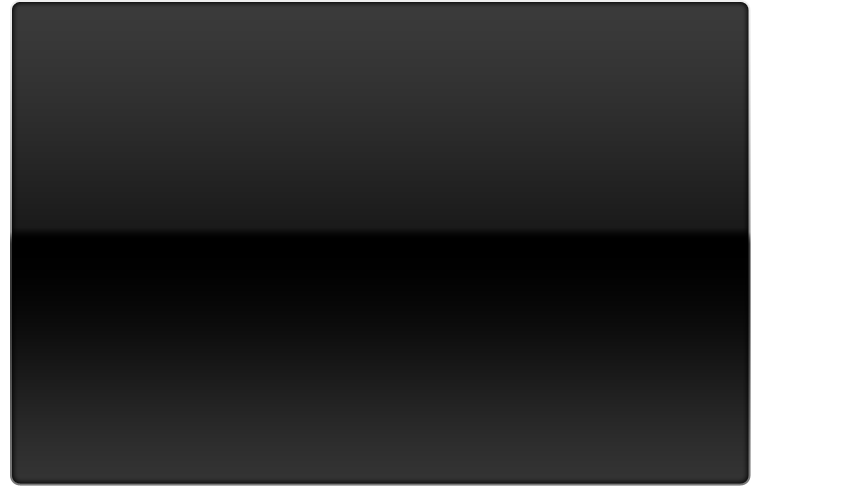
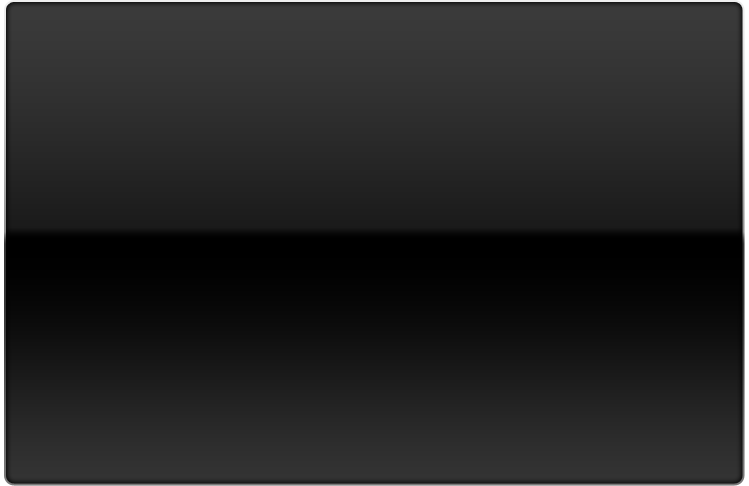
- Cropped some of the backgrounds to remove huge transparent areas. They were creating flicker when moving stuff. Also I had to make them no-repeat. - Disabled OpenGL acceleration for ABase under Linux to fix problems with Irrlicht. Turned on DeviceItemCoordinate cache mode, which speeds up the slid

Changed region(s): [[0.0, 0.0, 1.0, 1.0]]

diff --git a/src/ABase.cpp b/src/ABase.cpp
@@ -119,12 +119,16 @@ void ABase::setupViewport()
 #ifdef Q_WS_WIN
     viewport=new QWidget(&menuWidget);
     viewport->setAttribute(Qt::WA_MSWindowsUseDirect3D);
-#else
-    QGLWidget *glw = new QGLWidget(QGLFormat(QGL::SampleBuffers));
-    glw->setAutoFillBackground(false);
-    viewport = glw;
-#endif
     menuWidget.setCacheMode(QGraphicsView::CacheNone);
+#else
+    //Disabled OpenGL acceleration due to problems with Irrlicht
+    //QGLWidget *glw = new QGLWidget(QGLFormat(QGL::SampleBuffers));
+    //glw->setAutoFillBackground(false);
+    viewport = new QWidget(&menuWidget);
+    menuWidget.setCacheMode(QGraphicsView::CacheBackground);
+    menuWidget.setOptimizationFlag(QGraphicsView::DontClipPainter);
+    background->setCacheMode(QGraphicsItem::DeviceCoordinateCache);
+#endif
     menuWidget.setViewport(viewport);
 }
 
@@ -162,6 +166,10 @@ void ABase::addLevel(QString uicfile,QString description)
     QGraphicsClickablePixmapItem* item=new QGraphicsClickablePixmapItem(ss,&widgetGroup);
     item->setPos(1024*(widgets.size()-1.5),0);
     item->setAcceptHoverEvents(true); //For some reason doing this in the constructor of the pixmap item has no effect.
+
+#ifdef Q_WS_X11
+    item->setCacheMode(QGraphicsItem::DeviceCoordinateCache);
+#endif
 
     //Add a thing...
     QGraphicsSimpleTextItem *descItem=menu.addSimpleText(description);
